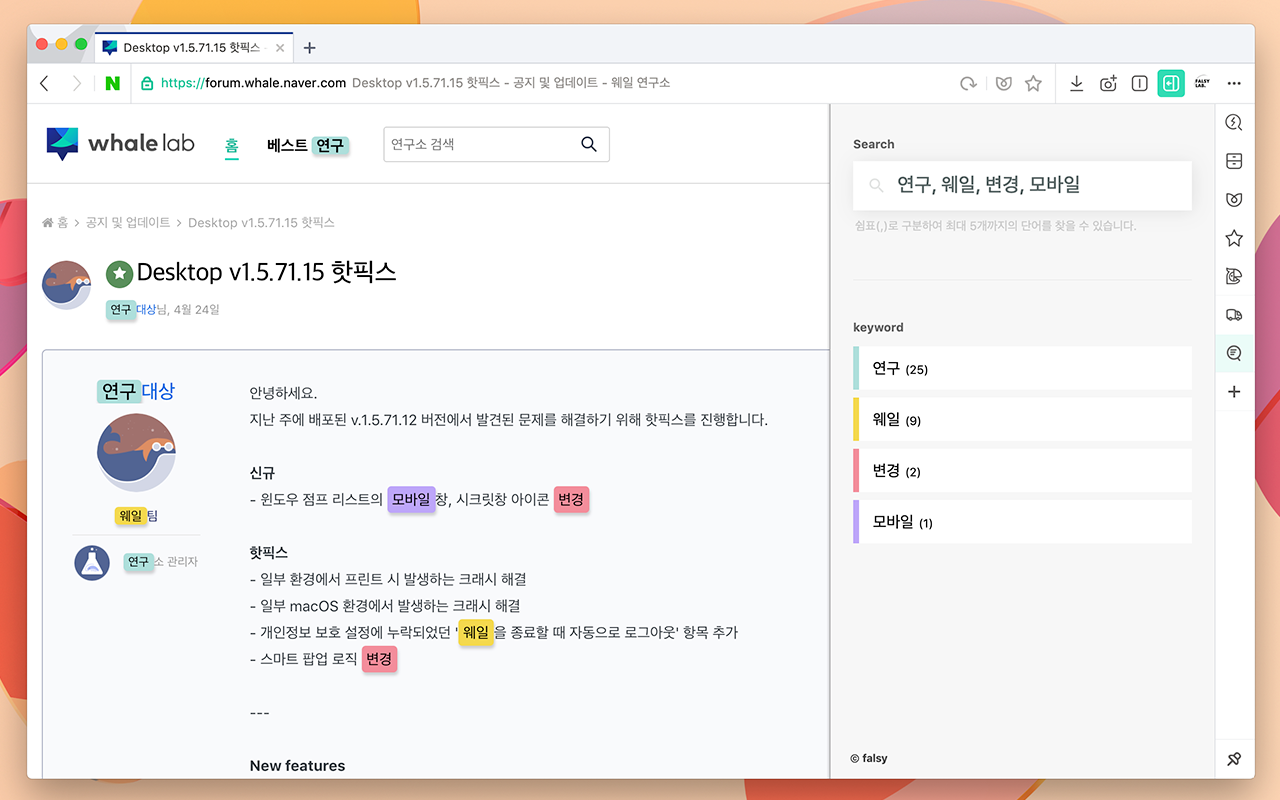
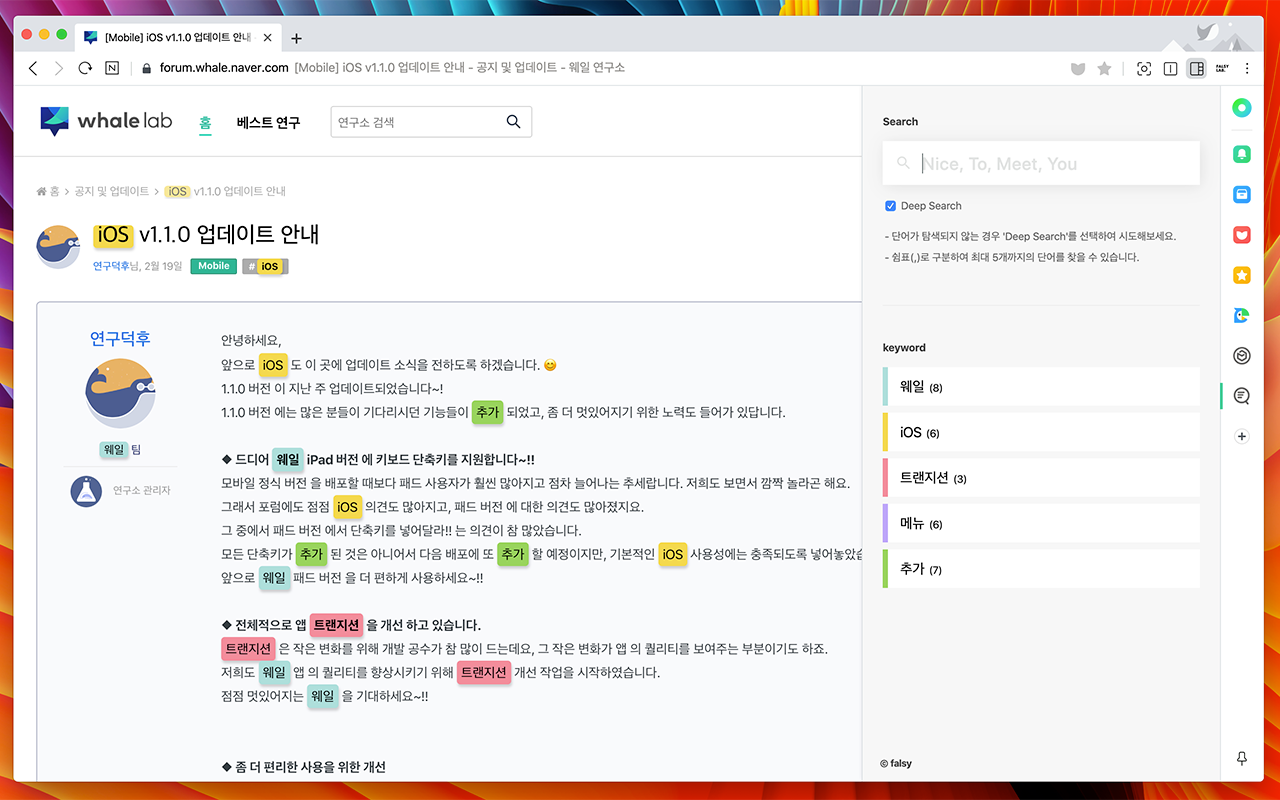
v1.3.1
* 깊은 검색 추가 (iframe 내부 단어까지 탐색)
* 검색된 단어의 스타일을 인라인으로 변경
* 아이콘 및 스크린샷 수정

diff --git a/src/services/FindMultipleWords.js b/src/services/FindMultipleWords.js
@@ -1,7 +1,9 @@
 export default class FindMultipleWords {
   constructor() {
     this.body = document.body;
-    this.except = ['SCRIPT', 'LINK', 'STYLE', 'IFRAME', 'MAT-ICON'];
+    this.color = ['#AEDFDB', '#F4D94E', '#F38D9B', '#BEA6F9', '#99d45D'];
+    this.except = ['SCRIPT', 'LINK', 'STYLE', 'MAT-ICON'];
+    this.isDeepSearch = false;
   }
 
   insertFmwElement(el) {
@@ -10,6 +12,10 @@ export default class FindMultipleWords {
         && this.except.indexOf(node.parentNode.nodeName) === -1
         && node.data.replace(/\t|\n| /gm, '') !== "") {
           this.replaceElement(node);
+      } else if(this.isDeepSearch && node.nodeName === 'IFRAME') {
+        node.contentDocument.body.childNodes.forEach(node => {
+          this.insertFmwElement(node);
+        });
       } else if(node.childNodes
         && node.childNodes.length
         && this.except.indexOf(node.nodeName) === -1) {
@@ -21,12 +27,20 @@ export default class FindMultipleWords {
   replaceElement(node) {
     const fmwElement = document.createElement('i');
           fmwElement.className = 'fmw-style-container';
+          fmwElement.style.fontStyle = 'normal';
     let nodeText = node.data;
 
     this.findWords.forEach((word, i) => {
       const reg = new RegExp(word, 'gim');
       if(reg.test(nodeText)) {
-        nodeText = nodeText.replace(reg, `<i class="fmw-style fmw-style-${i}">\$&</i>`);
+        const className = `fmw-style fmw-style-${i}`;
+        const baseStyleText = "font-style: normal; display: inline-block; box-shadow: 1px 3px 3px rgba(0,0,0,0.2); border-radius: 4px; padding: 0 5px; color: #000;";
+        const divisionColor = `background: ${this.color[i]};`;
+        nodeText = nodeText.replace(reg, `
+          <i class="${className}" style="${baseStyleText + divisionColor}">
+            \$&
+          </i>
+        `);
         // 검색된 키워드 카운팅
         this.wordCount[i] += 1;
       }
@@ -51,6 +65,9 @@ export default class FindMultipleWords {
     let children = el.children;
     let i = children.length - 1;
     while(i >= 0) {
+      if(children[i].nodeName === 'IFRAME') {
+        this.deleteFmwElement(children[i].contentDocument.body);
+      }
       if(children[i].children && children[i].children.length && this.except.indexOf(children[i].nodeName) === -1) {
         this.deleteFmwElement(children[i]);
       }
@@ -65,7 +82,8 @@ export default class FindMultipleWords {
     this.wordCount = [];
   }
 
-  searchDomElement(keywords) {
+  searchDomElement(keywords, isDeepSearch) {
+    this.isDeepSearch = isDeepSearch;
     this.deleteFmwElement(this.body);
     if(keywords.length) {
       // 검색에 사용된 단어

diff --git a/src/index.js b/src/index.js
@@ -1,4 +1,3 @@
-import { COLOR } from './constants/index.js';
 import FindMultipleWords from './services/FindMultipleWords.js';
 import KeywordElement from './services/KeywordElement.js';
 
@@ -9,9 +8,34 @@ class Fmw {
     this.keywordList = new KeywordElement();
     this.activeTabList = [];
     this.keywords = [];
+    this.deepSearchCheck = false;
 
     this.whaleEventListener();
     this.eventListener();
+    this.deepSearch();
+  }
+
+  deepSearch() {
+    const checkbox = document.getElementById('deep-search-checkbox');
+    const deepSearchCheck = window.localStorage.getItem('deep-search');
+    
+    if(deepSearchCheck === 'true') {
+      checkbox.setAttribute('checked', true);
+      this.deepSearchCheck = true;
+    } else {
+      checkbox.removeAttribute('checked');
+      this.deepSearchCheck = false;
+    }
+
+    checkbox.addEventListener('change', () => {
+      if(checkbox.checked) {
+        window.localStorage.setItem('deep-search', 'true');
+        this.deepSearchCheck = true;
+      } else {
+        window.localStorage.removeItem('deep-search');
+        this.deepSearchCheck = false;
+      }
+    });
   }
 
   checkRedeclared() {
@@ -29,40 +53,7 @@ class Fmw {
   initExecuteCode() {
     // 탭 페이지에 FMW 클래스 초기화
     whale.tabs.executeScript({
-      code: `
-        window.fmwClass = new ${FindMultipleWords}();
-      `
-    });
-    // 탭 페이지에 CSS 추가
-    whale.tabs.insertCSS({
-      code: `
-        .fmw-style-container {
-          font-style: normal;
-        }
-        .fmw-style-container .fmw-style {
-          font-style: normal;
-          display: inline-block;
-          box-shadow: 1px 3px 3px rgba(0,0,0,0.2);
-          border-radius: 4px;
-          padding: 0 5px;
-          color: #000;
-        }
-        .fmw-style-0 {
-          background: ${COLOR[0]};
-        }
-        .fmw-style-1 {
-          background: ${COLOR[1]};
-        }
-        .fmw-style-2 {
-          background: ${COLOR[2]};
-        }
-        .fmw-style-3 {
-          background: ${COLOR[3]};
-        }
-        .fmw-style-4 {
-          background: ${COLOR[4]};
-        }
-      `
+      code: `window.fmwClass = new ${FindMultipleWords}();`
     });
   }
 
@@ -134,7 +125,7 @@ class Fmw {
     whale.tabs.executeScript({
       code: `
         window.fmwClass.resetWordCount();
-        window.fmwClass.searchDomElement(${JSON.stringify(this.keywords)});
+        window.fmwClass.searchDomElement(${JSON.stringify(this.keywords)}, ${this.deepSearchCheck});
         whale.runtime.sendMessage(fmwClass.wordCount);
       `
     });

diff --git a/index.html b/index.html
@@ -15,7 +15,11 @@
           </p>
           <input type="text" name="keyword" id="keyword" placeholder="Nice, To, Meet, You" autocomplete="off" />
         </div>
-        <p class="ps-text">쉼표(,)로 구분하여 최대 5개까지의 단어를 찾을 수 있습니다.</p>
+        <div id="deep-search">
+          <label><input type="checkbox" name="deep-search-checkbox" id="deep-search-checkbox" value="deep" /> <span>Deep Search</span></label>
+        </div>
+        <p class="ps-text">- 단어가 탐색되지 않는 경우 'Deep Search'를 선택하여 시도해보세요.</p>
+        <p class="ps-text">- 쉼표(,)로 구분하여 최대 5개까지의 단어를 찾을 수 있습니다.</p>
       </section>
       <section id="keyword-container"></section>
       <footer>

diff --git a/src/styles/main.css b/src/styles/main.css
@@ -21,7 +21,7 @@ a:hover {
 }
 
 .ps-text {
-  color: #ccc;
+  color: #656565;
   padding-left: 2px;
   margin: 8px 0 0;
 }
@@ -33,7 +33,8 @@ a:hover {
 
 #search-form h2 {
   font-size: 12px;
-  color: #656565;
+  color: #444;
+  margin: 10px 0 15px;
 }
 
 #search-form #search-box {
@@ -66,12 +67,21 @@ a:hover {
   left: 14px;
 }
 
+#deep-search {
+  margin: 15px 0 20px;
+  color: #656565;
+}
+
+#deep-search span {
+  display: inline-block;
+}
+
 #keyword-container h2 {
-  margin-top: 46px;
   padding-top: 40px;
   border-top: 1px solid #eee;
   font-size: 12px;
-  color: #656565;
+  color: #444;
+  margin: 46px 0 15px;
 }
 
 #keyword-container ul {

diff --git a/changelog.md b/changelog.md
@@ -1,3 +1,9 @@
+## v1.3.1
+### 2020-03-18
+* 깊은 검색 추가 (iframe 내부 단어까지 탐색)
+* 검색된 단어의 스타일을 인라인으로 변경
+* 아이콘 및 스크린샷 수정
+
 ## v1.3.0
 ### 2019-05-27
 * 검색한 단어의 개수 출력

diff --git a/readme.md b/readme.md
@@ -4,3 +4,6 @@
 
 ### Screenshot
 ![Capture](/src/imgs/screenshot-1.png)
+
+### Version
+v1.3.1
